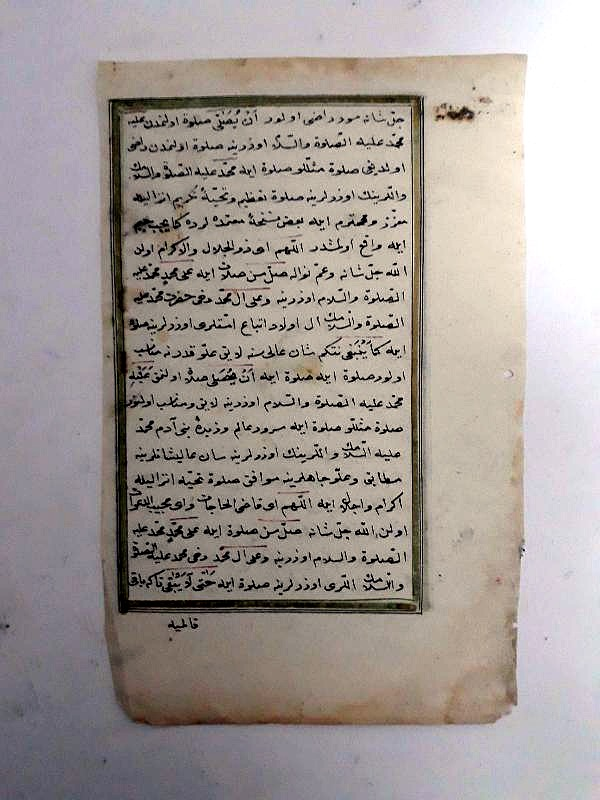
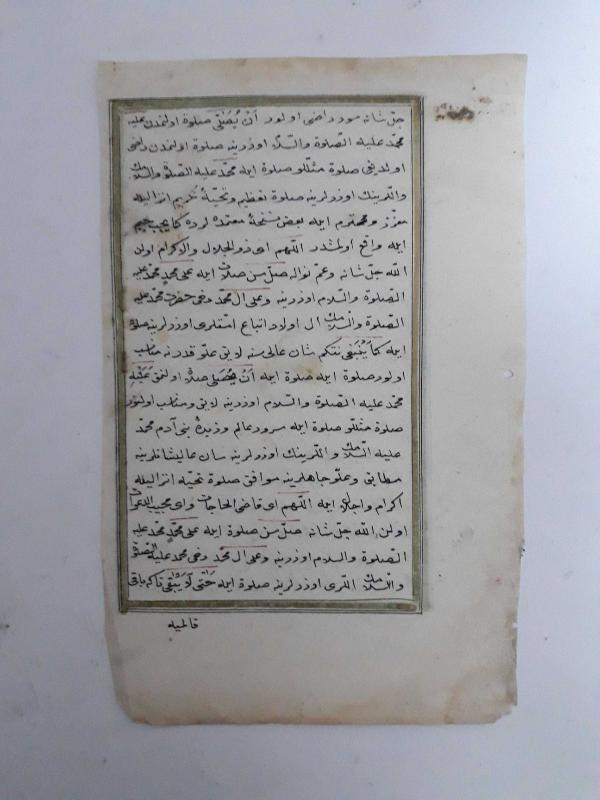
dosyalar vs

diff --git a/app.js b/app.js
@@ -1951,163 +1951,11 @@ Bundan böyle devlet-i aliyye ve memâlik-i mahrûsamızın hüsn-i idâresi ba'
                 notes: "Metin, Tanzimat Fermanı'nın en çok alıntılanan giriş ve gerekçe bölümünden bir özettir; belgenin tamamı çok daha uzundur."
             }
         },
-        'bkm': {
-            file: 'assets/bkm.jpg',
-            name: 'baki_kanuni_mersiyesi.jpg',
-            size: '0.22 MB',
-            ocr: `ای پای بند دامگه قید نام و ننگ
-تا كی هوای مشغله دهر بی درنك
-
-قانده سن ای نور چشمم قانده سن
-قانده سن شاه جهان قانده سن`,
-            tr: `Ey ad ve şan kaygısının tuzağına bağlanmış kişi,
-Bu durmadan dönen dünyanın meşgalesine ne zamana dek tutkun kalacaksın?
-
-Neredesin ey gözümün nuru, neredesin,
-Neredesin ey cihanın padişahı, neredesin?`,
-            translit: `Ey pây-bend-i dâm-geh-i kayd-ı nâm u neng
-Tâ key hevâ-yı meşgale-i dehr-i bî-direng
-
-Kandasın ey nûr-ı çeşmim kandasın
-Kandasın şâh-ı cihân kandasın`,
-            analysis: {
-                document_type: "Mersiye / Divan Şiiri",
-                confidence: 90,
-                style: "Klasik divan şiiri; terkib-bend nazım şekliyle yazılmış, hüzünlü ve yüksek ahenkli bir mersiye üslubu",
-                summary: "Bâkî'nin, 1566'da vefat eden Kanuni Sultan Süleyman için yazdığı ve Osmanlı edebiyatının en meşhur mersiyelerinden sayılan 'Kanuni Mersiyesi'nin (Terkib-i Bend) açılış beyitleri ile şiir boyunca tekrarlanan ve padişahın yokluğuna duyulan özlemi dile getiren ünlü nakarat beyitidir.",
-                key_points: [
-                    "Şiir, Bâkî tarafından Kanuni Sultan Süleyman'ın 1566'daki ölümü üzerine yazılmıştır.",
-                    "Terkib-i bend nazım şekliyle kaleme alınmış, yedi bendden oluşan bir mersiyedir.",
-                    "'Kandasın şâh-ı cihân kandasın' mısraı, şiirin en meşhur ve en sık alıntılanan dizelerindendir.",
-                    "Eser, Osmanlı divan edebiyatında mersiye türünün en başarılı örneklerinden biri kabul edilir."
-                ],
-                people: ["Bâkî", "Kanuni Sultan Süleyman"],
-                places: [],
-                concepts: ["mersiye", "terkib-i bend", "divan edebiyatı", "ölüm", "hükümdarlık"],
-                script_type: "Nesih",
-                script_purpose: "Klasik divan şiiri / mersiye",
-                period_estimate: "16. Yüzyıl, Kanuni Sonrası",
-                date_hijri: "974",
-                date_gregorian: "1566-1567",
-                notes: "Metin, şiirin tamamından (yedi bendden) açılış beyti ve en meşhur nakarat beyti olmak üzere kısa bir seçkidir."
-            }
-        },
-        'nkh': {
-            file: 'assets/nkh.jpg',
-            name: 'namik_kemal_hurriyet_kasidesi.jpg',
-            size: '1.12 MB',
-            ocr: `گورپ احكام عصری منحرف صدق و سلامتدن
-چكلدك عزت و اقبال ايله باب حكومتدن
-
-اوسانماز كندينی انسان بیلنلر خلقه خدمتدن
-مروت مند اولان مظلومه ال چكمز اعانتدن
-
-حقیر اولدیسه ملت شانینه نقصان كلمز صانما
-یره دوشمكله جوهر ساقط اولماز قدر و قیمتدن`,
-            tr: `Çağın kurallarının doğruluk ve esenlikten saptığını görüp,
-Onurumuzla, itibarımızla hükümet kapısından çekildik.
-
-Kendini insan bilenler halka hizmetten usanmaz;
-Mürüvvet sahibi olan, zulme uğrayana yardım etmekten vazgeçmez.
-
-Millet güçsüz düştüyse, şanına eksiklik geldiğini sanma;
-Mücevher yere düşmekle değerinden ve kıymetinden hiçbir şey kaybetmez.`,
-            translit: `Görüp ahkâm-ı asrı münharif sıdk u selâmetten
-Çekildik izzet ü ikbal ile bâb-ı hükûmetten
-
-Usanmaz kendini insan bilenler halka hizmetten
-Mürüvvet-mend olan mazluma el çekmez iânetten
-
-Hakîr olduysa millet şânına noksan gelir sanma
-Yere düşmekle cevher sâkıt olmaz kadr ü kıymetten`,
-            analysis: {
-                document_type: "Kaside / Divan Şiiri",
-                confidence: 90,
-                style: "Tanzimat dönemi kaside geleneğinde, vatan ve hürriyet temalı, yüksek retorikli bir şiir üslubu",
-                summary: "Namık Kemal'in, 1873'te yazdığı ve Yeni Osmanlılar hareketinin vatan, hürriyet ve adalet idealini en açık biçimde yansıtan şiiri 'Hürriyet Kasidesi'nin (asıl adıyla 'Besâlet-i Osmâniyye ve Hamiyyet-i İnsâniyye') en meşhur açılış ve ara beyitleri.",
-                key_points: [
-                    "Şiir, Namık Kemal tarafından 1873 yılı civarında kaleme alınmıştır.",
-                    "Yeni Osmanlılar hareketinin hürriyet, vatan ve adalet idealini yansıtan en tanınmış manzum eserlerden biridir.",
-                    "Şiirin açılış beyti, dönemin yönetim anlayışına yöneltilen eleştiriyi dile getirir.",
-                    "Eser, Tanzimat sonrası Osmanlı aydınları arasında hürriyet kavramının edebiyata yansımasının en güçlü örneklerinden sayılır."
-                ],
-                people: ["Namık Kemal"],
-                places: [],
-                concepts: ["hürriyet", "vatan", "kaside", "Yeni Osmanlılar", "adalet"],
-                script_type: "Matbu",
-                script_purpose: "Siyasi/vatani içerikli divan şiiri",
-                period_estimate: "Tanzimat Sonrası Dönem",
-                date_hijri: "Belirtilmemiş",
-                date_gregorian: "1873 (tahmini)",
-                notes: "Metin, uzun kasideden üç beyitlik meşhur bir seçkidir; görseldeki fotoğraf şairin kendisini göstermektedir, el yazması belgenin kendisi değildir."
-            }
-        },
-        'ecs': {
-            file: 'assets/ecs.jpg',
-            name: 'evliya_celebi_seyahatnamesi_cilt1_kapak.jpg',
-            size: '0.33 MB',
-            ocr: `اولیا چلبی سیاحتنامه سی
-
-مؤلفی:
-اولیا چلبی محمد ظلی ابن درویش
-
-برنجی جلد
-
-طابعی: احمد جودت
-
-درسعادتده «اقدام» مطبعه سی
-
-١٣١٤`,
-            tr: `Evliya Çelebi Seyahatnâmesi
-
-Yazarı:
-Evliya Çelebi Mehmed Zıllî, Derviş'in oğlu
-
-Birinci Cilt
-
-Basan: Ahmed Cevdet
-
-İstanbul'da "İkdam" Matbaası
-
-1314 (Hicrî, yaklaşık 1896-1897)`,
-            translit: `Evliyâ Çelebi Seyâhatnâmesi
-
-Müellifi:
-Evliyâ Çelebi Mehmed Zıllî İbn Dervîş
-
-Birinci Cild
-
-Tâbi'i: Ahmed Cevdet
-
-Dersaâdet'de "İkdâm" Matba'ası
-
-1314`,
-            analysis: {
-                document_type: "Kitap Kapağı / Cilt Başlık Sayfası",
-                confidence: 96,
-                style: "Matbu, sade ve bibliyografik bir başlık sayfası düzeni",
-                summary: "17. yüzyıl Osmanlı seyyahı Evliya Çelebi'nin dünyaca ünlü on ciltlik seyahat eseri Seyahatnâme'nin, 1896-97 (1314 H.) yılında İstanbul'da 'İkdam' Matbaası'nda basılan ilk baskısının birinci cildine ait kapak/başlık sayfasıdır.",
-                key_points: [
-                    "Seyahatnâme, Evliya Çelebi Mehmed Zıllî tarafından 17. yüzyılda kaleme alınmıştır.",
-                    "Bu görseldeki baskı, eserin 1896-97'de İstanbul'da yapılan ilk matbu baskısının birinci cildidir.",
-                    "Baskıyı gerçekleştiren matbaa 'İkdam Matbaası', dönemin tanınmış yayın kuruluşlarındandı.",
-                    "Seyahatnâme, Osmanlı coğrafyası ve komşu ülkeler hakkında en kapsamlı seyahat eserlerinden biri olarak kabul edilir."
-                ],
-                people: ["Evliya Çelebi", "Ahmed Cevdet"],
-                places: ["İstanbul"],
-                concepts: ["seyahatname", "matbaa", "ilk baskı", "coğrafya"],
-                script_type: "Matbu / Celî Sülüs (başlık)",
-                script_purpose: "Kitap kapağı / cilt başlık sayfası",
-                period_estimate: "Geç Osmanlı Dönemi (II. Abdülhamid)",
-                date_hijri: "1314",
-                date_gregorian: "1896-1897",
-                notes: "Görsel, eserin içeriğinden bir sayfa değil, birinci cildin kapak/başlık sayfasıdır; üzerindeki kütüphane mühür ve kaşeleri eserin sonradan kamu kütüphanelerinde dolaşımda olduğunu göstermektedir."
-            }
-        },
         'svs': {
             file: 'assets/svs.jpg',
+            enhancedFile: 'assets/svs-enhanced.jpg',
             name: 'salavat_serhi_sayfasi.jpg',
-            size: '0.11 MB',
+            size: '0.05 MB',
             ocr: `جل شانه معبود راضی اولور أن يُصلي صلوة اولمدن عليه
 محمد عليه الصلوة والسلام اوزرینه صلوة اولمدن داهی
 اولديغی صلوة مثللو صلوة ایله محمد عليه الصلوة والسلام
@@ -2667,7 +2515,11 @@ kalmaya`,
                 assistantMessages.innerHTML = '';
                 state.selectedFile = { name: sample.name };
                 state.imageDataUrl = sample.file;
-                state.enhancedImageUrl = sample.file;
+                // Çoğu örnekte tek görsel var (file iyileştirilmiş hâliyle
+                // aynı); bazı örnekler (örn. "svs") gerçek bir önce/sonra
+                // farkı göstersin diye ayrı bir enhancedFile taşıyabilir —
+                // "İyileştirilmiş Görüntüyü Göster" açılınca o görünür.
+                state.enhancedImageUrl = sample.enhancedFile || sample.file;
                 fileName.textContent = sample.name;
                 fileSize.textContent = sample.size;
                 previewImage.src = sample.file;

diff --git a/index.html b/index.html
@@ -683,39 +683,6 @@
                     </div>
                     <img src="assets/ornament-frame.png" alt="" aria-hidden="true" class="sample-card-frame">
                 </div>
-                <div class="sample-card" data-sample="bkm">
-                    <div class="sample-img-container">
-                        <img src="assets/bkm.jpg" alt="Bâkî'nin Kanuni Mersiyesi">
-                        <span class="sample-try-overlay">Bu belgeyi dene</span>
-                    </div>
-                    <div class="sample-details">
-                        <h4>Bâkî'nin Kanuni Mersiyesi</h4>
-                        <span class="sample-tag">Mersiye / Divan Şiiri</span>
-                    </div>
-                    <img src="assets/ornament-frame.png" alt="" aria-hidden="true" class="sample-card-frame">
-                </div>
-                <div class="sample-card" data-sample="nkh">
-                    <div class="sample-img-container">
-                        <img src="assets/nkh.jpg" alt="Namık Kemal'in Hürriyet Kasidesi">
-                        <span class="sample-try-overlay">Bu belgeyi dene</span>
-                    </div>
-                    <div class="sample-details">
-                        <h4>Namık Kemal'in Hürriyet Kasidesi</h4>
-                        <span class="sample-tag">Kaside / Divan Şiiri</span>
-                    </div>
-                    <img src="assets/ornament-frame.png" alt="" aria-hidden="true" class="sample-card-frame">
-                </div>
-                <div class="sample-card" data-sample="ecs">
-                    <div class="sample-img-container">
-                        <img src="assets/ecs.jpg" alt="Evliya Çelebi Seyahatnâmesi">
-                        <span class="sample-try-overlay">Bu belgeyi dene</span>
-                    </div>
-                    <div class="sample-details">
-                        <h4>Evliya Çelebi Seyahatnâmesi</h4>
-                        <span class="sample-tag">Kitap Kapağı / Seyahatname</span>
-                    </div>
-                    <img src="assets/ornament-frame.png" alt="" aria-hidden="true" class="sample-card-frame">
-                </div>
                 <div class="sample-card" data-sample="svs">
                     <div class="sample-img-container">
                         <img src="assets/svs.jpg" alt="Delâilü'l-Hayrât Şerhi — Salavat Tefsiri">
